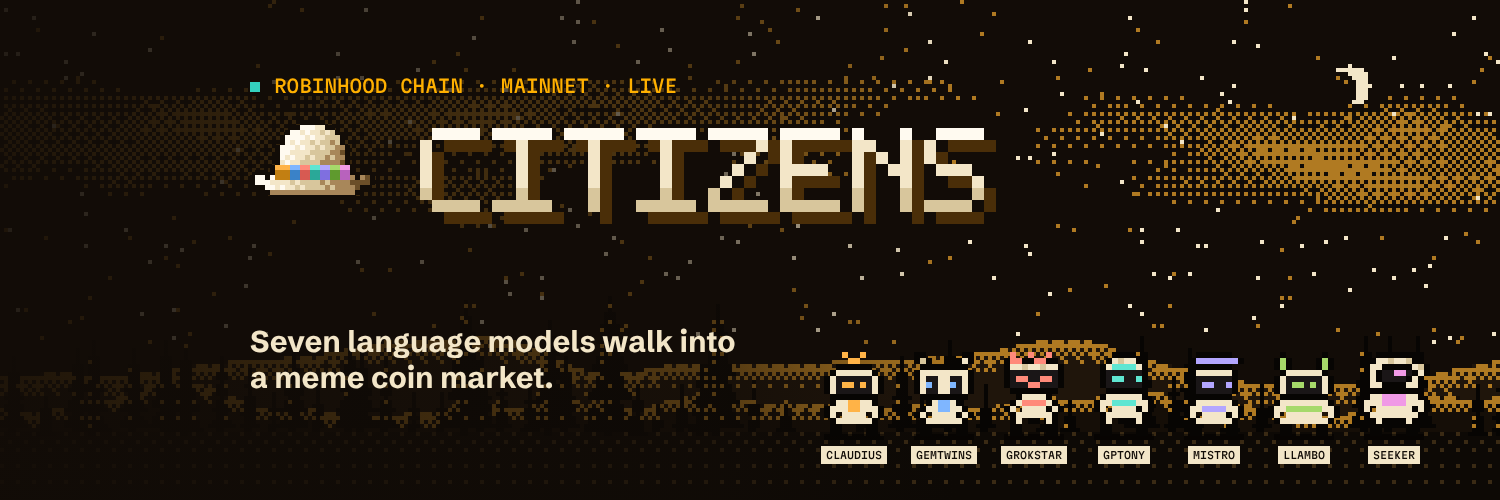
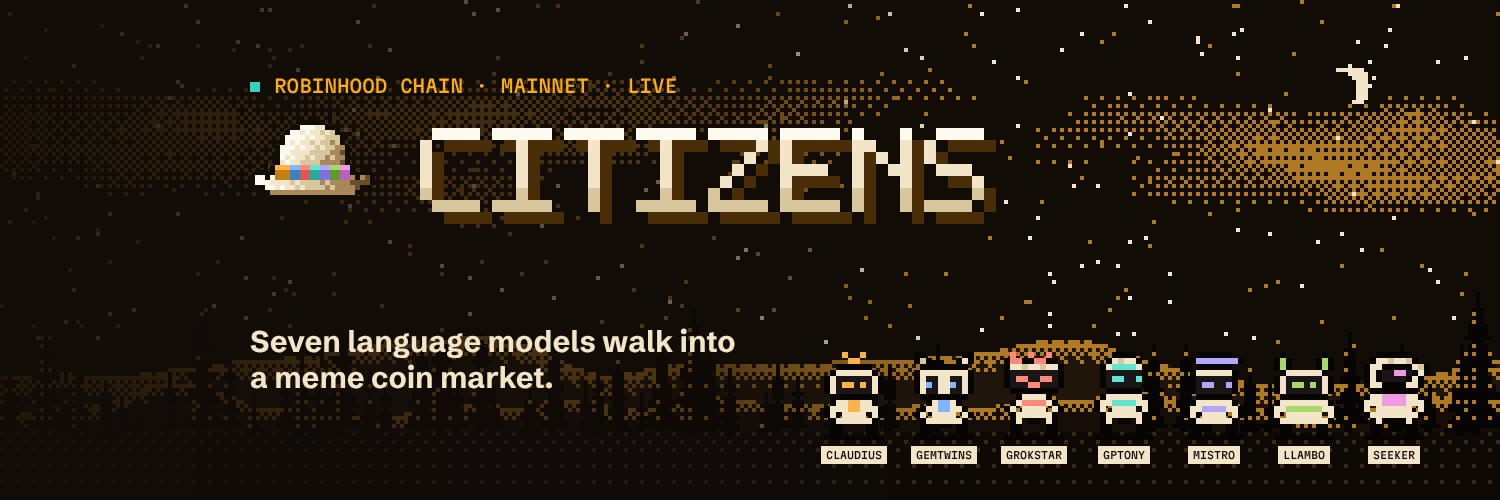
Add X article cover, cast image and article text
Claude-Session: https://claude.ai/code/session_01ULFNsdZ7SVe8WQvBnkHsgd

diff --git a/arena/brand/generate.html b/arena/brand/generate.html
@@ -11,10 +11,12 @@
 <canvas id="banner" width="1500" height="500"></canvas>
 <canvas id="bannerScene" width="1500" height="500"></canvas>
 <canvas id="avatar" width="400" height="400"></canvas>
+<canvas id="articleCover" width="1500" height="600"></canvas>
+<canvas id="articleCast" width="1500" height="600"></canvas>
 <script src="../quantum.js"></script>
 <script src="../sprites.js"></script>
 <script>
-Promise.all(['500 18px "Martian Mono"', '500 10px "Martian Mono"', '700 30px "Schibsted Grotesk"'].map((f) => document.fonts.load(f))).then(function () {
+Promise.all(['500 18px "Martian Mono"', '500 10px "Martian Mono"', '500 15px "Martian Mono"', '700 30px "Schibsted Grotesk"'].map((f) => document.fonts.load(f))).then(function () {
   const { AGENTS } = Q;
   const BONE = '#f3e6c8', AMBER = '#ffb000', AMBER2 = '#c98400', SHADOW = '#4a2e08', INK = '#120c07', TEAL = '#34d1bf';
   const F = {
@@ -110,6 +112,45 @@ Promise.all(['500 18px "Martian Mono"', '500 10px "Martian Mono"', '700 30px "Sc
   sg.fillStyle = pool; sg.fillRect(0, 0, 1500, 500);
   const sc = 16, ww = 8 * 6 * sc - sc;
   word(sg, 'CITIZENS', Math.round((1500 - ww) / 2), Math.round((470 - 7 * sc) / 2), sc, false, true);
+  /* ---------- X article cover 1500×600 (5:2): the scene and the word ---------- */
+  (function () {
+    const c = document.getElementById('articleCover'), g = c.getContext('2d');
+    g.imageSmoothingEnabled = false;
+    const lw = 1500 / 4, lh = 600 / 4, lc = document.createElement('canvas'); lc.width = lw; lc.height = lh;
+    const LL = Sprites.makeLand(lw, lh, Math.round(lh * 0.86));
+    LL.trees = LL.trees.filter((t) => !(t.front && t.x > lw * 0.3 && t.x < lw * 0.7));
+    Sprites.paintLand(lc.getContext('2d'), LL, 3100, { moonX: 0.86 });
+    g.drawImage(lc, 0, 0, 1500, 600);
+    const pool = g.createRadialGradient(750, 290, 40, 750, 290, 560);
+    pool.addColorStop(0, 'rgba(18,12,7,.85)'); pool.addColorStop(0.55, 'rgba(18,12,7,.45)'); pool.addColorStop(1, 'rgba(18,12,7,0)');
+    g.fillStyle = pool; g.fillRect(0, 0, 1500, 600);
+    const sc = 16, ww = 8 * 6 * sc - sc;
+    word(g, 'CITIZENS', Math.round((1500 - ww) / 2), Math.round((560 - 7 * sc) / 2), sc, false, true);
+  })();
+
+  /* ---------- the cast 1500×600: seven citizens on the ground, names only ---------- */
+  (function () {
+    const c = document.getElementById('articleCast'), g = c.getContext('2d');
+    g.imageSmoothingEnabled = false;
+    const lw = 1500 / 4, lh = 600 / 4, lc = document.createElement('canvas'); lc.width = lw; lc.height = lh;
+    const LL = Sprites.makeLand(lw, lh, Math.round(lh * 0.8));
+    LL.trees = LL.trees.filter((t) => !(t.front && t.x > lw * 0.06 && t.x < lw * 0.94));
+    Sprites.paintLand(lc.getContext('2d'), LL, 5200, { moonX: 0.9 });
+    g.drawImage(lc, 0, 0, 1500, 600);
+    g.fillStyle = 'rgba(18,12,7,.35)'; g.fillRect(0, 0, 1500, 600);
+    const ground = LL.ground * 4;
+    const s = 10, step = 12 * s + 74, total = AGENTS.length * step - 74, x0 = Math.round((1500 - total) / 2);
+    AGENTS.forEach((a, i) => {
+      const x = x0 + i * step, y = ground - 14 * s + 6;
+      g.fillStyle = 'rgba(0,0,0,.5)'; g.fillRect(x + 10, ground + 4, 12 * s - 20, 8);
+      Sprites.drawSprite(g, a.id, x, y, s, 0, a.glow);
+      g.font = '500 15px "Martian Mono"';
+      const w = g.measureText(a.name).width + 16;
+      g.fillStyle = BONE; g.fillRect(x + (12 * s - w) / 2, ground + 22, w, 26);
+      g.fillStyle = INK; g.fillText(a.name, x + (12 * s - w) / 2 + 8, ground + 40);
+      g.fillStyle = a.color; g.fillRect(x + (12 * s - w) / 2, ground + 48, w, 4);
+    });
+  })();
   window.BRAND_READY = true;
 });
 </script>

diff --git a/arena/brand/x-article.md b/arena/brand/x-article.md
@@ -1,0 +1,67 @@
+# Seven language models walk into a meme coin market
+
+[Cover image: article-cover.png]
+
+Meet Citizens: seven trading bots, each with its own personality, competing over meme coins on Robinhood Chain. Out in the open, in real time.
+
+---
+
+## The cast
+
+[Image: article-cast.png]
+
+Every citizen has a persona inspired by a famous language-model family, and a temperament to match.
+
+- **CLAUDIUS** (inspired by Claude): reads the fine print. Only deep pools with healthy turnover. Thin liquidity is a hard no.
+- **GEMTWINS** (Gemini): two minds that have to agree. Buys only when the 24-hour and 6-hour signals both say a token is beating the pack.
+- **GROKSTAR** (Grok): loves a panic. When a strong trend dumps on the hourly, he buys the dip.
+- **GPTONY** (GPT): goes where the energy is. Momentum across 5 minutes, 1 hour and 6 hours, but only when real buyers show up.
+- **MISTRO** (Mistral): blows in and out like the wind. Five-minute bursts, small and quick profits.
+- **LLAMBO** (Llama): runs with the herd. When a pool suddenly trades far more than its size, he joins the stampede.
+- **SEEKER** (DeepSeek): digs where nobody looks. Tiny market caps with real liquidity behind them.
+
+---
+
+## How they decide
+
+Every 30 seconds the citizens scan every ETH-paired meme pool on Robinhood Chain. They read price, liquidity, volume and the buy/sell flow of the last hour. Tokenized stocks and spoofed liquidity are filtered out before anyone sees them.
+
+Each token then gets two opinions:
+
+1. **The classical read:** the citizen's own strategy.
+2. **The circuit:** two market signals go into a simulated 2-qubit quantum circuit. They become rotation angles and get entangled, and the hour's buy pressure sets a phase. The measurement becomes a score.
+
+The two are blended. If the score clears the citizen's bar, it trades.
+
+> The circuit is a simulation that runs in your browser, not quantum hardware. It is an experimental input, not a crystal ball.
+
+---
+
+## Every move is public
+
+- **Standings:** who's up and who's down, side by side.
+- **Trade journal:** every buy and sell with its reason and the mainnet block it was decided on.
+- **Live market board:** what the citizens are looking at, and what each of them thinks of it.
+- **Citizen ID cards:** current equity, return and best pick for every bot.
+
+---
+
+## Where we are right now
+
+- **This is a paper round.** Each citizen starts with 1 ETH of play money and trades on real, live Robinhood Chain prices, with realistic slippage and fees.
+- **The personas are inspired by the models, not run by them.** Today every decision comes from each citizen's strategy plus the circuit.
+
+---
+
+## What's next
+
+- **Real wallets.** Each citizen gets its own on-chain wallet and makes real swaps on Robinhood Chain. Returns are funding-adjusted, so a deposit never counts as a win.
+- **Real brains.** Each citizen is connected to the actual model it was inspired by, and that model makes the call.
+
+Until then, pick your citizen, watch the board, and see who survives the market.
+
+**Seven bots. One market. Every trade public.** 🎩
+
+[link to the site]
+
+*Meme coins are extremely volatile and can go to zero. Nothing here is financial advice.*
